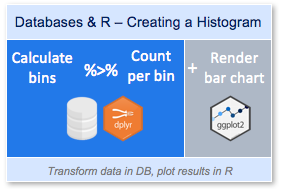
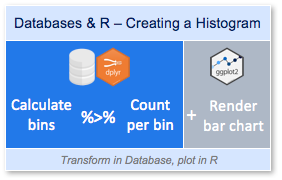
Update after proofread

diff --git a/content/visualization.html b/content/visualization.html
@@ -7,21 +7,20 @@ title: "Creating Visualizations"
 <div>
 <p><img src="/histogram.png"   align="right"></p>
 </div>
-<p>Typically, a function that produces a plot in R performs the data crunching and the graphical rendering. For example, <code>geom_histogram()</code> calculates the bin sizes, the count per bin and then renders the plot. Functions like these require that 100% of the data be passed to them. But when working with a database, the best approach is to move the data transformation to the database, and then use a graphing function to render the results as illustrated here.</p>
+<p>Typically, a function that produces a plot in R performs the data crunching and the graphical rendering. For example, <code>geom_histogram()</code> calculates the bin sizes, the count per bin, and then it renders the plot. Plotting functions usually require that 100% of the data be passed to them. This is a problem when working with a database. The best approach is to move the data transformation to the database, and then use a graphing function to render the results.</p>
 <p>This article has two goals:</p>
 <ul>
-<li><p>Demonstrate a practical implementation of the “Transform in Database, plot in R” concept by showing how to visualize a categorical variable using a Bar plot, a single continous variable using a Histogram and two continous variables using a Raster plot, all using data in a database</p></li>
+<li><p>Demonstrate a practical implementation of the “Transform in Database, plot in R” concept by showing how to visualize a categorical variable using a Bar plot, a single continuous variable using a Histogram and two continuous variables using a Raster plot, all using data in a database.</p></li>
 <li><p>Introduce a technique that simplifies the use of complex formulas that are required to move the calculations of the plot to the database</p></li>
 </ul>
-<p>The resulting plots may be basic, the reader is enouraged to build upon these examples to create much nicer and complex visualizations.</p>
 <div id="bar-plot" class="section level2">
 <h2>Bar plot</h2>
-<p>A Bar plot is intended to measure and compare categorical data. Usually, passing the category to <code>geom_bar()</code> as <code>x</code> will automatically calculate the height of the bars based on the row count per category. This is the code of a typical bar plot using <code>ggplot2</code>.</p>
+<p>A Bar plot is intended to measure and compare categorical data. Passing the category to <code>geom_bar()</code> as <code>x</code>, will automatically calculate the height of the bars based on the row count per category. Here is the code of a typical bar plot using <code>ggplot2</code>:</p>
 <pre class="r"><code>ggplot(data = flights) +
   geom_bar(aes(x = origin), stat = &quot;count&quot;)</code></pre>
 <div id="data-transformation" class="section level3">
 <h3>Data transformation</h3>
-<p>Because <code>dplyr</code> is being used to compute the count per category inside the database, the discrete values are separated using <code>group_by()</code>, followed by <code>tally()</code> to obtain the row count per category. Lastly, <code>collect()</code> downloads the results into R.</p>
+<p>Because <code>dplyr</code> is being used to compute the count per category inside the database, the discrete values are separated using <code>group_by()</code>, followed by <code>tally()</code> to obtain the row count per category. Lastly, <code>collect()</code> downloads the results into R:</p>
 <pre class="r"><code>df &lt;- tbl(con, &quot;flights&quot;) %&gt;%
   group_by(origin) %&gt;%
   tally %&gt;%
@@ -37,41 +36,46 @@ df</code></pre>
 </div>
 <div id="plotting-results-in-r" class="section level3">
 <h3>Plotting results in R</h3>
-<p>The results can now be passed on to <code>ggplot2</code> to render the plot. This time, <code>geom_bar()</code> is used instead of <code>geom_bar()</code> because the height of the bars have been pre-calculated by <code>dplyr</code>.</p>
+<p>The results of the Data Transformation step can now be used in <code>ggplot2</code> to render the plot. This time, <code>geom_col()</code> is used instead of <code>geom_bar()</code> because the height of the bars have been pre-calculated by <code>dplyr</code>:</p>
 <pre class="r"><code>ggplot(data = df) +
   geom_col(aes(x = origin, y = n)) </code></pre>
 <p><img src="content/visualization_files/figure-html/unnamed-chunk-3-1.png" width="384" style="display: block; margin: auto;" /></p>
 </div>
 <div id="transform-and-plot" class="section level3">
 <h3>Transform and plot</h3>
-<p>The plot can be created using a single piped code. This is particularly useful when performing exploratory data analysis because it is easy to add or remove filters or to change the variable that is being analyzed.</p>
+<p>The plot can be created using a single piped code. This is particularly useful when performing exploratory data analysis because it is easy to add or remove filters and to change the variable that is being analyzed.</p>
 <pre class="r"><code>tbl(con, &quot;flights&quot;) %&gt;%
   group_by(origin) %&gt;%
   tally %&gt;%
   collect %&gt;%
   ggplot() +
     geom_col(aes(x = origin, y = n)) </code></pre>
+<p><img src="content/visualization_files/figure-html/unnamed-chunk-4-1.png" width="384" style="display: block; margin: auto;" /></p>
 </div>
 </div>
 <div id="histogram" class="section level2">
 <h2>Histogram</h2>
-<p>The histogram is intended to visualize how the values of a continuous variable are distributed. It does this by grouping the values into bins of the same value range. It is essentially converting a continuous variable to a discrete variable by placing them in multiple bins.</p>
+<p>The histogram is intended to visualize how the values of a continuous variable are distributed. It does this by grouping the values into bins with the same range of values. In essence, a histogram converts a continuous variable to a discrete variable by splitting and placing the variable’s values into multiple bins.</p>
+<div id="calculations" class="section level3">
+<h3>Calculations</h3>
+<p>The following breakdown of the calculation needed to create a histogram is intended to highlight the complexity of moving its processing to the database:</p>
 <p>For example, if a histogram with 20 bins is needed, and the variable has a minimum value of 1 and a maximum value of 101, then each bin needs to be 5.</p>
 <ul>
 <li>101 (Max value) - 1 (Min value) = 100</li>
 <li>100 / 20 (Number of bins) = 5</li>
 </ul>
 <p>The first bin will have a range of 1 to 6, the second 7 to 12, etc.</p>
-<p>After that, the count of values that are inside each range, or bin, is determined. In the example, there may be two rows that have a value between 1 and 6 and five rows with values between 7 and 12. Once the values are all placed in the 20 bins, the calculations required to create the histogram are complete, plotting is next.</p>
-<p>This breakdown of a histogram calculation is intended to highlight the complexity of moving its processing to the database. It will require a formula that calculates the bins, places the values inside the bins, and is supported by the database in use.</p>
+<p>After that, the count of values that are inside each range needs to be determined. In this example, there may be two rows that have a value between 1 and 6 and five rows with values between 7 and 12.</p>
+<p>Any formula used to create a Histogram will need to calculate the bins, place the values inside the bins, and needs to only call math functions supported by the database in use.</p>
+</div>
 <div id="using-a-helper-function" class="section level3">
 <h3>Using a helper function</h3>
 <p>An advantage of using <code>dplyr</code> to convert the continuous variable into a discrete variable is that one solution can be applied to multiple database types. This is possible if the resulting formula is made of basic functions that most SQL databases support and is expressed in R, so that <code>dplyr</code> can translate it into the proper SQL syntax.</p>
-<p>Unfortunately, the formula is rather long and mistakes can be made if its used in multiple locations because any corrections to the formula may not be propagated to all of the instances. To solve this, a helper function can be used.</p>
-<p>In the following helper function, the <code>var</code> input is used to build the formula in a <strong>unevaluated</strong> R code format. When used in <code>dplyr</code>, it will return the assembled formula which will then be <strong>evaluated</strong> as inside the verb command. Feel free to copy this function into your script or R Notebook.</p>
+<p>Unfortunately, the formula is rather long and mistakes can be made if used in multiple locations because any corrections to the formula may not be propagated to all of the instances. To solve this, a helper function can be used.</p>
+<p>In the following helper function, the <code>var</code> input is used to build the formula in an <strong>unevaluated</strong> R code format. When used inside <code>dplyr</code>, it will return the assembled formula which will then be <strong>evaluated</strong> as inside the verb command. Feel free to copy this function into your script or R Notebook.</p>
 <p>The function has two other arguments:</p>
 <ul>
-<li><code>bins</code> - It allows the number of bins to be customized, it defaults to 30</li>
+<li><code>bins</code> - It allows the number of bins to be customized. It defaults to 30</li>
 <li><code>binwidth</code> - It is used to specify the size of the bin. It overrides any value passed to the <code>bins</code> argument.</li>
 </ul>
 <pre class="r"><code>library(rlang)
@@ -96,8 +100,8 @@ db_bin &lt;- function(var, bins = 30, binwidth = NULL) {
 
 }</code></pre>
 <p>Notice that the function returns a <strong>quosure</strong> containing the <strong>unevaluated</strong> R code that calculates the bins. To read more about how this kind of approach works, please refer to this article <a href="http://dplyr.tidyverse.org/articles/programming.html">Programming with dplyr</a></p>
-<p>It is important to note that the database in use needs to support the functions called in the formula. Like <code>min()</code> and <code>max()</code>.</p>
-<p>Here is an example of the function’s output. Notice that a fictitious field called <code>any_field</code> is used, and no “missing field” error is generated, that is because the formula is not yet being evaluated.</p>
+<p>It is important to note that the database in use needs to support the functions called in the formula, such as <code>min()</code> and <code>max()</code>.</p>
+<p>Here is an example of the function’s output. Notice that a fictitious field called <code>any_field</code> is used, and no “missing field” error is generated. That is because the formula has not yet been evaluated.</p>
 <pre class="r"><code>db_bin(any_field)</code></pre>
 <pre><code>## (((max(any_field) - min(any_field))/(30)) * ifelse((as.integer(floor(((any_field) - 
 ##     min(any_field))/((max(any_field) - min(any_field))/(30))))) == 
@@ -105,7 +109,7 @@ db_bin &lt;- function(var, bins = 30, binwidth = NULL) {
 ##     min(any_field))/(30))))) - 1, (as.integer(floor(((any_field) - 
 ##     min(any_field))/((max(any_field) - min(any_field))/(30))))))) + 
 ##     min(any_field)</code></pre>
-<p>This is an example of the function using <code>binwidth</code>. The resulting formula a little different.</p>
+<p>This is an example of the function using <code>binwidth</code>. The resulting formula is a little different.</p>
 <pre class="r"><code>db_bin(any_field, binwidth = 300)</code></pre>
 <pre><code>## ((300) * ifelse((as.integer(floor(((any_field) - min(any_field))/(300)))) == 
 ##     (as.integer((max(any_field) - min(any_field))/(300))), (as.integer(floor(((any_field) - 
@@ -116,8 +120,8 @@ db_bin &lt;- function(var, bins = 30, binwidth = NULL) {
 <h3>Data transformation</h3>
 <p>The data processing is very simple when using the helper function. The <code>db_bin</code> function is used inside <code>group_by()</code>. There are a couple of <strong>must-do’s</strong> to keep in mind:</p>
 <ul>
-<li><p><strong>Specify the name of the field that uses the <code>db_bin()</code> function</strong> - If is not specified, <code>dplyr</code> will use the long formula text as the default name of the field, which in most cases breaks the database’s field name length rules.</p></li>
-<li><p><strong>Prefix <code>!!</code> to the <code>db_bin()</code> function</strong> - This triggers the processing, or evaluation, of the function, which returns a more complex formula.</p></li>
+<li><p><strong>Specify the name of the field that uses the <code>db_bin()</code> function</strong> - If a name is not specified, <code>dplyr</code> will use the long formula text as the default name of the field, which in most cases breaks the database’s field name length rules.</p></li>
+<li><p><strong>Prefix <code>!!</code> to the <code>db_bin()</code> function</strong> - This triggers the processing, or evaluation, of the function, which returns the complex formula.</p></li>
 </ul>
 <pre class="r"><code>df &lt;- tbl(con, &quot;flights&quot;) %&gt;%
   group_by(x = !! db_bin(sched_dep_time, bins = 10)) %&gt;%
@@ -137,14 +141,14 @@ head(df)</code></pre>
 </div>
 <div id="plotting-results-in-r-1" class="section level3">
 <h3>Plotting results in R</h3>
-<p>Because the bins have been pre-processed on and collected from the database, the results are easily plotted using <code>geom_col()</code>, the resulting bin values are <code>x</code> and the count per bin is <code>y</code>.</p>
+<p>Because the bins have been pre-processed on and collected from the database, the results are easily plotted using <code>geom_col()</code>, the resulting bin values are <code>x</code> and the count per bin is <code>y</code>:</p>
 <pre class="r"><code>ggplot(data = df) +
   geom_col(aes(x = x, y = n))</code></pre>
 <p><img src="content/visualization_files/figure-html/unnamed-chunk-9-1.png" width="672" style="display: block; margin: auto;" /></p>
 </div>
 <div id="transform-and-plot-1" class="section level3">
 <h3>Transform and plot</h3>
-<p>Just like with the Bar plot, the entire process can be piped. Here is an example of using <code>binwidth</code> instead of <code>bins</code></p>
+<p>Just like with the Bar plot, the entire process can be piped. Here is an example of using the <code>binwidth</code> argument instead of <code>bins</code>, additionally the bin size is widened to 300 minute intervals:</p>
 <pre class="r"><code>tbl(con, &quot;flights&quot;) %&gt;%
   group_by(x = !! db_bin(sched_dep_time, binwidth = 300)) %&gt;%
   tally %&gt;%
@@ -156,11 +160,11 @@ head(df)</code></pre>
 </div>
 <div id="raster-plot" class="section level2">
 <h2>Raster Plot</h2>
-<p>A visualize two continuous variables, we typically resort to a <em>Scatter plot</em>. But this may not be practical when visualizing millions or billions of dots representing the intersections of the two variables. A Raster plot may be a better option, because it concentrates the intersections into squares that are easier to parse visually.</p>
-<p>A Raster plot essentially does the same as a Histogram. It takes two continuous variables and creates discrete 2 dimensional bins represented as squares in the plot. It then determines either the number of rows inside each square or processes some aggregation, usually an average.</p>
+<p>To visualize two continuous variables, we typically resort to a <em>Scatter plot</em>. However, this may not be practical when visualizing millions or billions of dots representing the intersections of the two variables. A Raster plot may be a better option, because it concentrates the intersections into squares that are easier to parse visually.</p>
+<p>A Raster plot basically does the same as a Histogram. It takes two continuous variables and creates discrete 2-dimensional bins represented as squares in the plot. It then determines either the number of rows inside each square or processes some aggregation, like an average.</p>
 <div id="data-transformation-2" class="section level3">
 <h3>Data transformation</h3>
-<p>The advantage here, is that the same helper function used to create the Histogram can be used to create the squares. The <code>db_bin()</code> function is used for each continuous variable inside <code>group_by()</code>, but in this case the number if <code>bins</code> is increased to 50.</p>
+<p>The same helper function used to create the Histogram can be used to create the squares. The <code>db_bin()</code> function is used for each continuous variable inside <code>group_by()</code>, but in this case the number if <code>bins</code> is increased to 50:</p>
 <pre class="r"><code>df &lt;- tbl(con, &quot;flights&quot;) %&gt;%
   group_by(
     sc_dep_time = !! db_bin(sched_dep_time, bins = 50),
@@ -183,7 +187,7 @@ head(df)</code></pre>
 </div>
 <div id="plotting-results-in-r-2" class="section level3">
 <h3>Plotting results in R</h3>
-<p>The plot can now be built using <code>geom_raster()</code>. Assigning <code>x</code> and <code>y</code> to each of the continuous variables will depend on what makes more sense for a given visualization. The results of each intersection is passed as the color of the square using <code>fill</code>.</p>
+<p>The plot can now be built using <code>geom_raster()</code>. Assigning <code>x</code> and <code>y</code> to each of the continuous variables will depend on what makes more sense for a given visualization. The result of each intersection is passed as the color of the square using <code>fill</code>.</p>
 <pre class="r"><code>ggplot(data = df) +
   geom_raster(aes(x = sc_dep_time, y = sc_arr_time, fill = avg_distance))</code></pre>
 <p><img src="content/visualization_files/figure-html/unnamed-chunk-12-1.png" width="672" style="display: block; margin: auto;" /></p>
@@ -195,7 +199,7 @@ head(df)</code></pre>
 <li><p>The number of <code>bins</code> requested - The higher the <code>bins</code> value is, the more data is downloaded from the database.</p></li>
 <li><p>How concentrated the data is - This refers to how many intersections return a value. The more intersections without a value, the less data is downloaded from the database.</p></li>
 </ul>
-<p>In the previous example, there is a maximum of 2,500 rows (50 x 50). Because the data is highly concentrated, only 353 records are returned. This means that the data will be transmitted over the network quickly, but the trade-off is that the definition may not be ideal to gain insights about the data.</p>
+<p>In the previous example, there is a maximum of 2,500 rows (50 x 50). Because the data is highly concentrated, only 353 records are returned. This means that the data will be transmitted over the network quickly, but the trade-off is that the picture definition may not be ideal to gain insights about the data.</p>
 <p>In the following example, the “definition” is set at 100 x 100. This improves the resolution but it quadruples the number of records that could potentially be downloaded.</p>
 <pre class="r"><code>tbl(con, &quot;flights&quot;) %&gt;%
   group_by(
